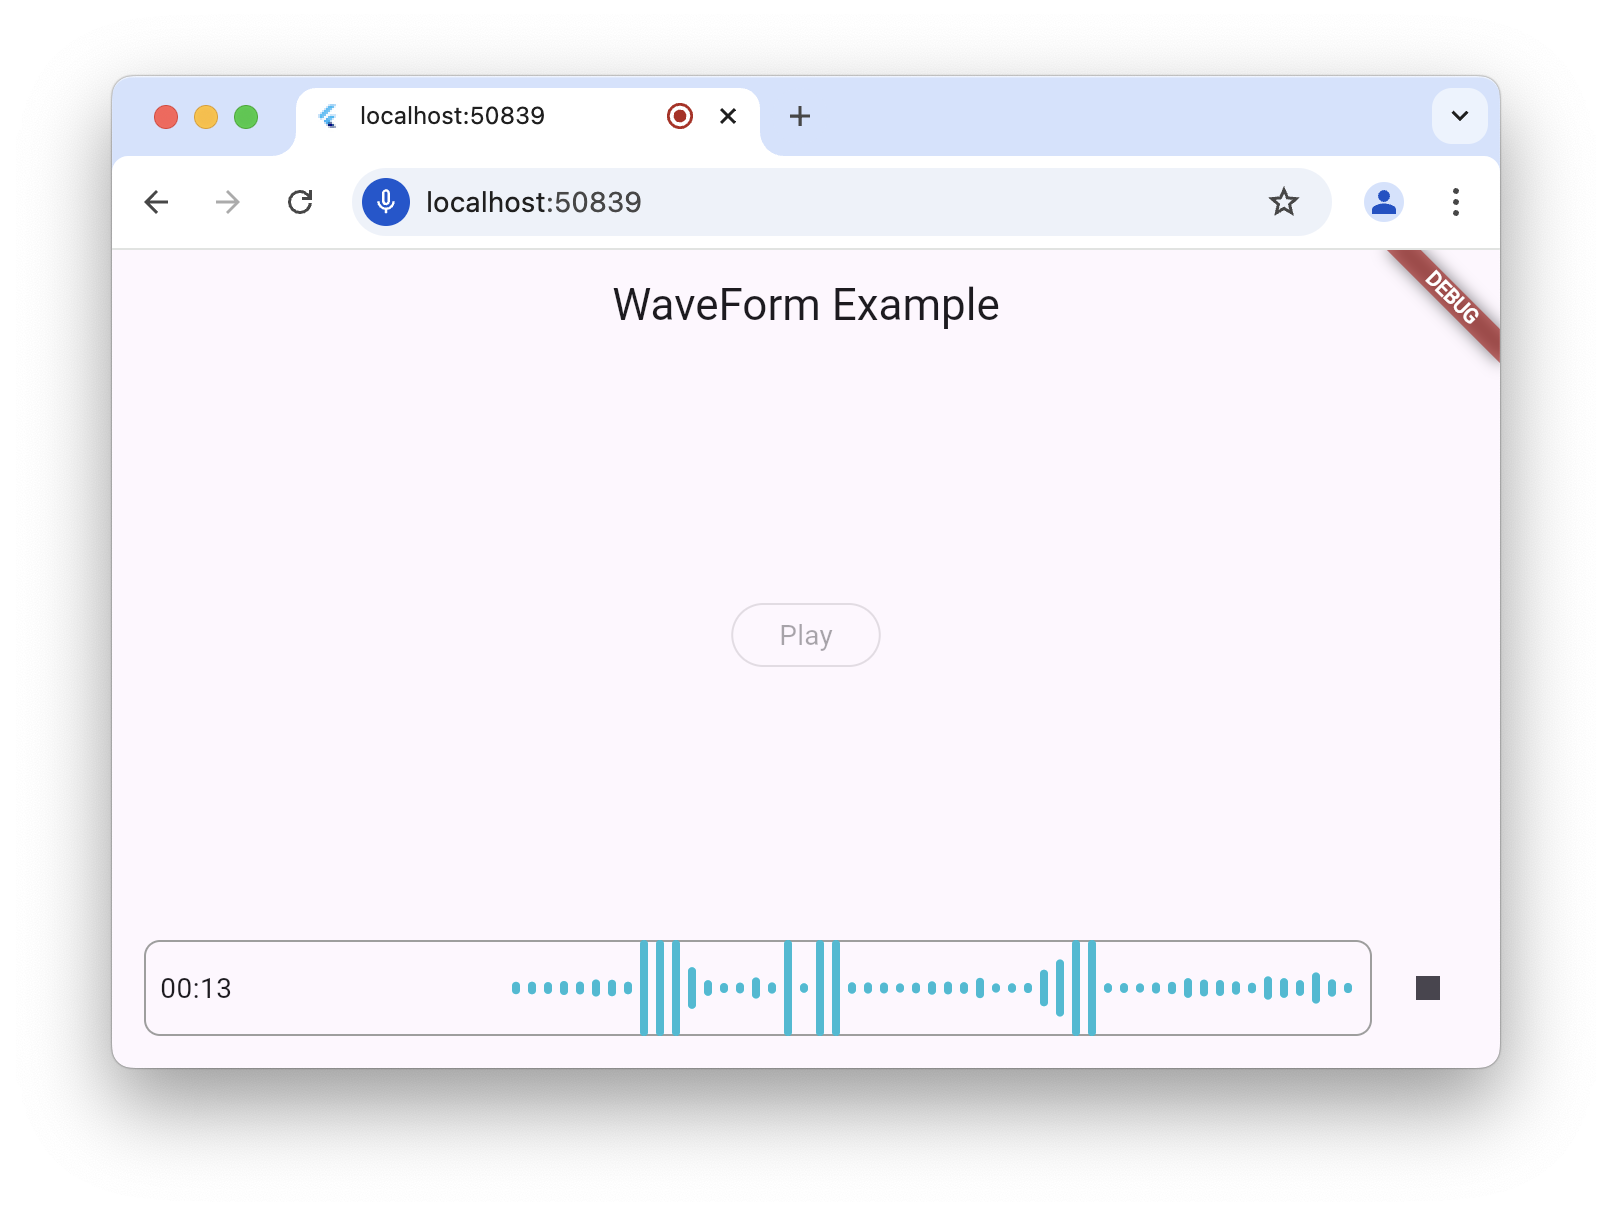
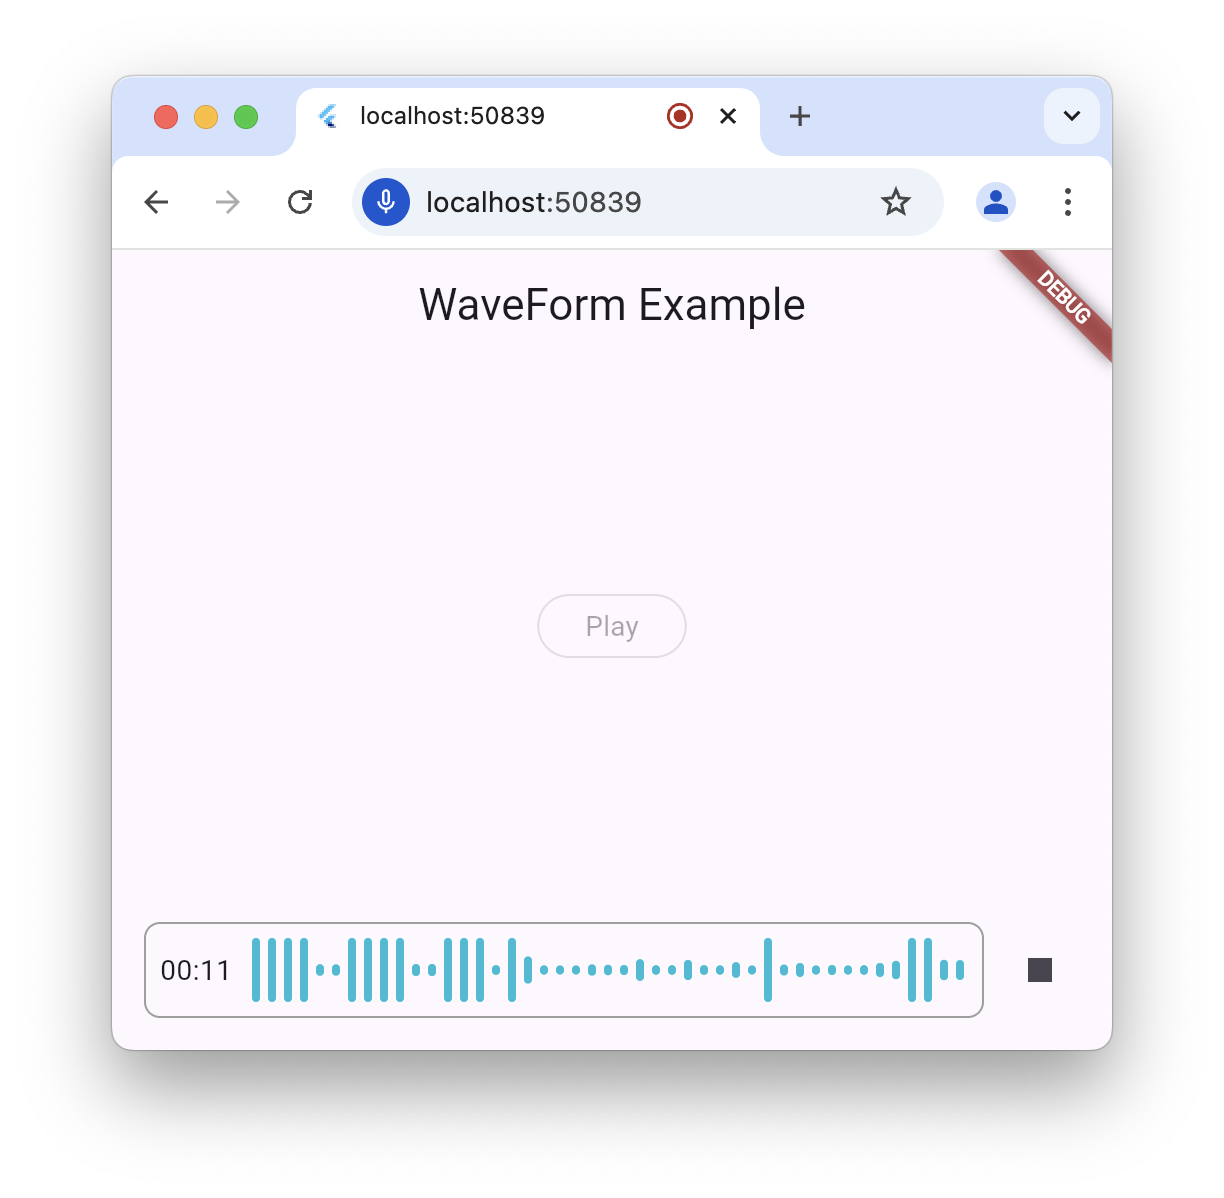
updated UX + README

diff --git a/lib/src/waveform_recorder.dart b/lib/src/waveform_recorder.dart
@@ -63,24 +63,25 @@ class _WaveformRecorderState extends State<WaveformRecorder> {
   }
 
   @override
-  Widget build(BuildContext context) => Row(
-        children: [
-          const Gap(8),
-          Align(
-            alignment: Alignment.centerLeft,
-            child: Text(_elapsedTime),
-          ),
-          const Gap(8),
-          Expanded(
-            child: SizedBox(
-              height: widget.height,
-              child: AnimatedWaveList(
-                stream: widget.controller.amplitudeStream,
+  Widget build(BuildContext context) => SizedBox(
+        height: widget.height,
+        child: Padding(
+          padding: const EdgeInsets.all(8),
+          child: Row(
+            children: [
+              Align(
+                alignment: Alignment.centerLeft,
+                child: Text(_elapsedTime),
               ),
-            ),
+              const Gap(8),
+              Expanded(
+                child: AnimatedWaveList(
+                  stream: widget.controller.amplitudeStream,
+                ),
+              ),
+            ],
           ),
-          const Gap(8),
-        ],
+        ),
       );
 
   String get _elapsedTime {
